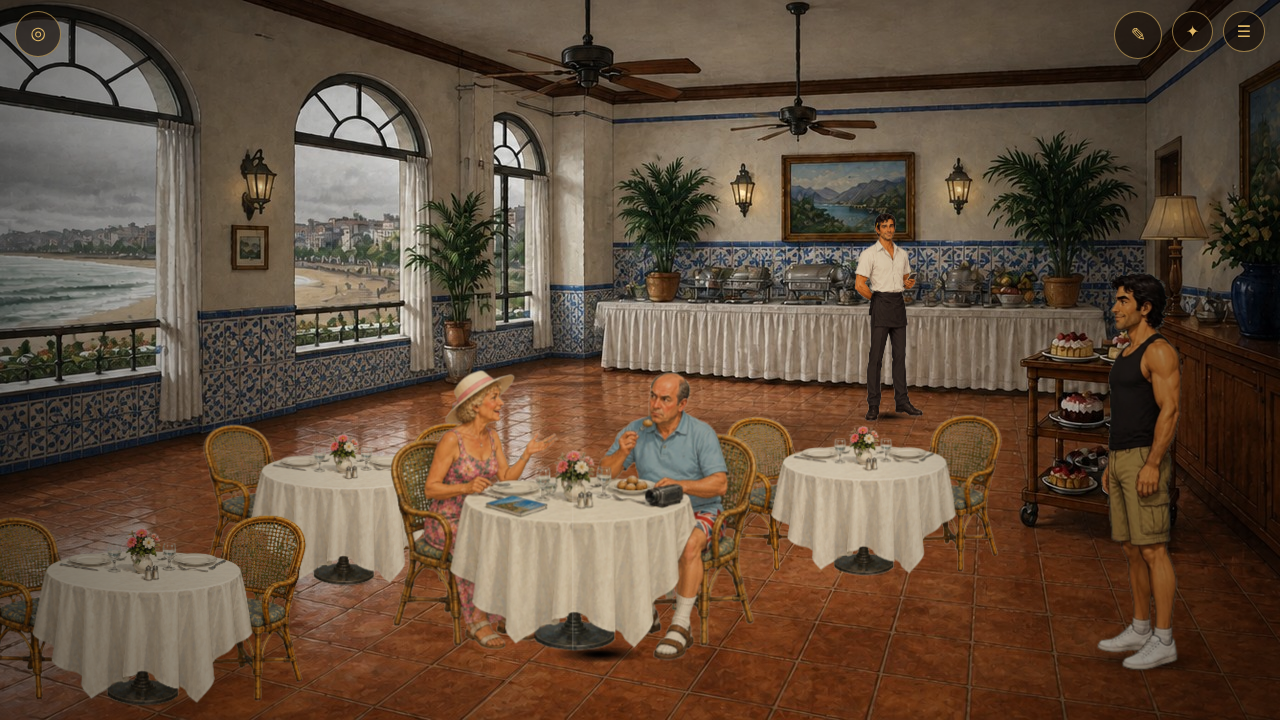
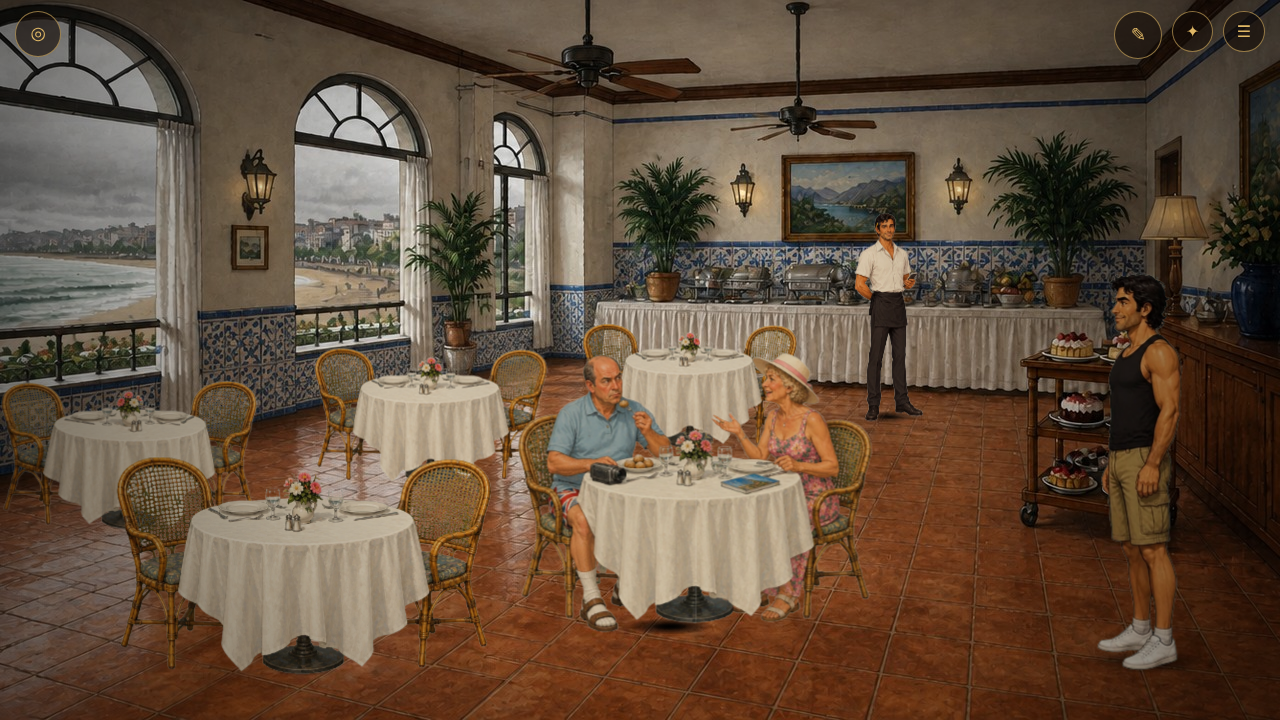
Sequel: the restaurant furnished as the user placed it (empty tables, Gail and Derek's table flipped)
Claude-Session: https://claude.ai/code/session_016HTeTNSXEDV8gmJrtKWM3n

Changed region(s): [[0.0, 0.4278, 0.7812, 0.9778], [0.875, 0.4583, 0.9062, 0.4889], [0.875, 0.3972, 0.9062, 0.4278]]

diff --git a/sequel/index.html b/sequel/index.html
@@ -70,7 +70,7 @@
 <script src="js/lines.js?v=5b48796b"></script>
 <script src="js/sprites_game1.js?v=acdd4454"></script>
 <script src="js/sprites_placeholders.js?v=f2fac2d1"></script>
-<script src="js/sprites_canva.js?v=1a1ef9da"></script>
+<script src="js/sprites_canva.js?v=0bf16e72"></script>
 <script src="js/sprites_ludo.js?v=e535ce07"></script>
 <script src="js/fx.js?v=6264ea85"></script>
 <script src="js/audio.js?v=d974bf6f"></script>
@@ -98,7 +98,7 @@
 <script src="js/story/emotions.js?v=ed8a5576"></script>
 <script src="js/story/docs.js?v=57655c2c"></script>
 <script src="js/story/prologue.js?v=a2e05501"></script>
-<script src="js/story/tue.js?v=26fb115d"></script>
+<script src="js/story/tue.js?v=7c57dc44"></script>
 <script src="js/story/wed.js?v=50484cd8"></script>
 <script src="js/story/thu.js?v=b958afcb"></script>
 <script src="js/story/fri.js?v=d9a3d07b"></script>
@@ -106,7 +106,7 @@
 <script src="js/story/vasco.js?v=2024c343"></script>
 <script src="js/story/sun.js?v=d8400db3"></script>
 <script src="js/story/mon.js?v=9680e820"></script>
-<script src="js/story/extras.js?v=e73a432c"></script>
+<script src="js/story/extras.js?v=27ca823e"></script>
 <script src="js/story/layout.js?v=95cc3bb4"></script>
 <script src="js/story/main.js?v=fc101cc5"></script>
 </body>

diff --git a/sequel/js/story/extras.js b/sequel/js/story/extras.js
@@ -69,6 +69,57 @@ window.S.EXTRAS = {
    "scale": 1.0,
    "size": 0.77,
    "h": 268.7
+  },
+  {
+   "id": "x_restaurant_table",
+   "frames": [
+    "x_restaurant_table"
+   ],
+   "x": 690,
+   "y": 448,
+   "dir": "w",
+   "scale": 0.457,
+   "size": 0.96,
+   "h": 282.6,
+   "flip": true
+  },
+  {
+   "id": "x_restaurant_table_2",
+   "frames": [
+    "x_restaurant_table"
+   ],
+   "x": 431,
+   "y": 483,
+   "dir": "w",
+   "scale": 0.457,
+   "size": 0.98,
+   "h": 300.5,
+   "flip": true
+  },
+  {
+   "id": "x_restaurant_table_3",
+   "frames": [
+    "x_restaurant_table"
+   ],
+   "x": 129,
+   "y": 529,
+   "dir": "e",
+   "scale": 0.457,
+   "size": 1,
+   "h": 324.1
+  },
+  {
+   "id": "x_restaurant_table_4",
+   "frames": [
+    "x_restaurant_table"
+   ],
+   "x": 304,
+   "y": 674,
+   "dir": "w",
+   "scale": 0.457,
+   "size": 1.19,
+   "h": 398.5,
+   "flip": true
   }
  ],
  "isleta": [
@@ -279,6 +330,16 @@ window.S.CAST_AT = {
   ]
  },
  "hotel_restaurant": {
+  "seat_gail": [
+   670,
+   632,
+   "w"
+  ],
+  "seat_derek": [
+   670,
+   632,
+   "w"
+  ],
   "derek": [
    720,
    641,

diff --git a/sequel/js/story/tue.js b/sequel/js/story/tue.js
@@ -542,10 +542,7 @@
   ROOMS.hotel_restaurant = S.room({
     music: 'hotel_restaurant',
     name: 'Hotel Cristina · the restaurant', bg: 'hotel_restaurant', floor: 'tile', ambience: 'museum', door: 'door',
-    // the tables: the painting without its own (the user, 2026-10-30), set with the empty version of Gail and Derek's
-    // table so every table matches theirs; sized by depth like the placed extras (h: the floor's height there)
-    ambient: [[150, 705], [350, 585], [870, 575]].map(([x, y], i) => ({ id: 'table_' + i, frames: ['table_empty'], x, y, dir: 'e', scale: 0.457,
-      h: 340 + 80 * (y - 560) / 156 })),
+    // (its tables: the painting has none of its own; table sprites placed by the user in the placement tool, js/story/extras.js)
     animBack(g, t) {
       // through the arched windows: the cloud drifting, the surf rolling in
       drift(g, t, 'restaurant', [[0, 122, 158, 110], [298, 158, 102, 60], [496, 160, 30, 45]], { speed: 4, a: 0.38, seed: 19 });

diff --git a/sequel/js/sprites_canva.js b/sequel/js/sprites_canva.js
@@ -851,6 +851,14 @@ window.SPRITES = Object.assign(window.SPRITES || {}, {
 "top": 20.0,
 "w": 693
 },
+"x_restaurant_table": {
+"ax": 640.5,
+"fy": 740.0,
+"h": 720.0,
+"hh": 760,
+"top": 20.0,
+"w": 1281
+},
 "x_restaurant_waiter": {
 "ax": 139.0,
 "fy": 740.0,

diff --git a/sequel/scripts/extras_install.py b/sequel/scripts/extras_install.py
@@ -54,9 +54,10 @@ def main():
             # the tool centres the picture on x, the game stands the sprite on its own anchor (ax): move x across, and
             # size it as the tool showed it (depth unclamped there, clamped in the game)
             m = meta['gail_seated']; free, game = depth(r, p['y']); size = p.get('size', 1) * free / game
-            Hd = free * 0.74 * p.get('size', 1); wd = Hd * m['w'] / m['h'] * (720 / m['h']) if False else Hd * (m['w'] / 720)
-            xg = round(p['x'] - wd / 2 + (m['ax'] / m['w']) * wd)
-            for sid in ('seat_gail', 'seat_derek'): cast.setdefault(r, {})[sid] = [xg, p['y'], 'e'] + ([round(size, 3)] if abs(size - 1) > 0.005 else [])
+            Hd = free * 0.74 * p.get('size', 1); wd = Hd * (m['w'] / 720); fx = m['ax'] / m['w']
+            if p.get('flip'): fx = 1 - fx   # (mirrored: the anchor mirrors with it)
+            xg = round(p['x'] - wd / 2 + fx * wd)
+            for sid in ('seat_gail', 'seat_derek'): cast.setdefault(r, {})[sid] = [xg, p['y'], 'w' if p.get('flip') else 'e'] + ([round(size, 3)] if abs(size - 1) > 0.005 else [])
             continue
         if 'extra' in p:
             x = p['extra']; k = SPEC[x]['place'][2]
@@ -69,8 +70,9 @@ def main():
             if p.get('rot'): e['rot'] = p['rot']
             extras.setdefault(r, []).append(e)
         else:
-            cid = ID(p['cast']); g = GAME[r][cid]; first = next(c for c in CAST[r] if ID(c['name']) == cid)
-            d = g['dir'] if p.get('flip') == first['flip'] else {'e': 'w', 'w': 'e'}[g['dir']]
+            cid = ID(p['cast']); g = GAME[r][cid]; first = next((c for c in CAST[r] if ID(c['name']) == cid), None)
+            # (a cast member the tool no longer shows in this room, e.g. the restaurant's standing Gail and Derek: their own flip)
+            d = ('w' if p.get('flip') else 'e') if first is None else g['dir'] if p.get('flip') == first['flip'] else {'e': 'w', 'w': 'e'}[g['dir']]
             free, game = depth(r, p['y']); size = round(p.get('size', 1) * free / game, 3)
             cast.setdefault(r, {})[cid] = [p['x'], p['y'], d] + ([size] if abs(size - 1) > 0.005 else [])
     json.dump(meta, open(side, 'w'), indent=1, sort_keys=True)

diff --git a/sequel/docs/HANDOFF.md b/sequel/docs/HANDOFF.md
@@ -748,3 +748,14 @@ the Sea, one glimpse only, no line gives it a voice; the Sea is never funny.
     `derek_seated`, full-size and rigid, drawn at the same spot so each is its own person to click. In the restaurant on
     Tuesday, Wednesday and Sunday (`seat_gail`, `seat_derek`, scale 0.74, at 600,660); Thursday keeps Gail standing
     alone (Derek is at the museum dinner). Screenshot in the running game; play.mjs won.
+72. **The restaurant, furnished as the user placed it** (2026-10-30). The user: "it's out of scale with the other tables. I
+    suggest you remove the tables from the background, and add empty table sprites, based on Gail's and Derek's table";
+    then "put the restaurant in the positioning tool, i will place and adjust the sprites myself"; "restaurant placement
+    done". art/bg/hotel_restaurant.jpg is a Higgsfield edit with the room's tables and chairs taken out (the old one in
+    `art/designs/rooms_real/old_hotel_restaurant.jpg`); `table_empty` (an edit of Gail and Derek's table with them
+    taken out). In the placement tool two new tray items for the restaurant (`restaurant_table`, `restaurant_gail_derek`,
+    their cut-outs in art/review/extras/cut/ and entries in extras.json), the standing Gail and Derek out of its cast.
+    The user's layout (four empty tables, theirs flipped at 695,632, the waiter) installed with extras_install.py:
+    empty tables as ambient extras; Gail and Derek's table sets seat_gail / seat_derek's stand (the tool's centred x
+    turned into the sprite's anchor, mirrored when flipped; size by the tool's depth); a cast record the tool no longer
+    shows keeps its own flip. Screenshot `art/review/restaurant_tables.png`; play.mjs won.
